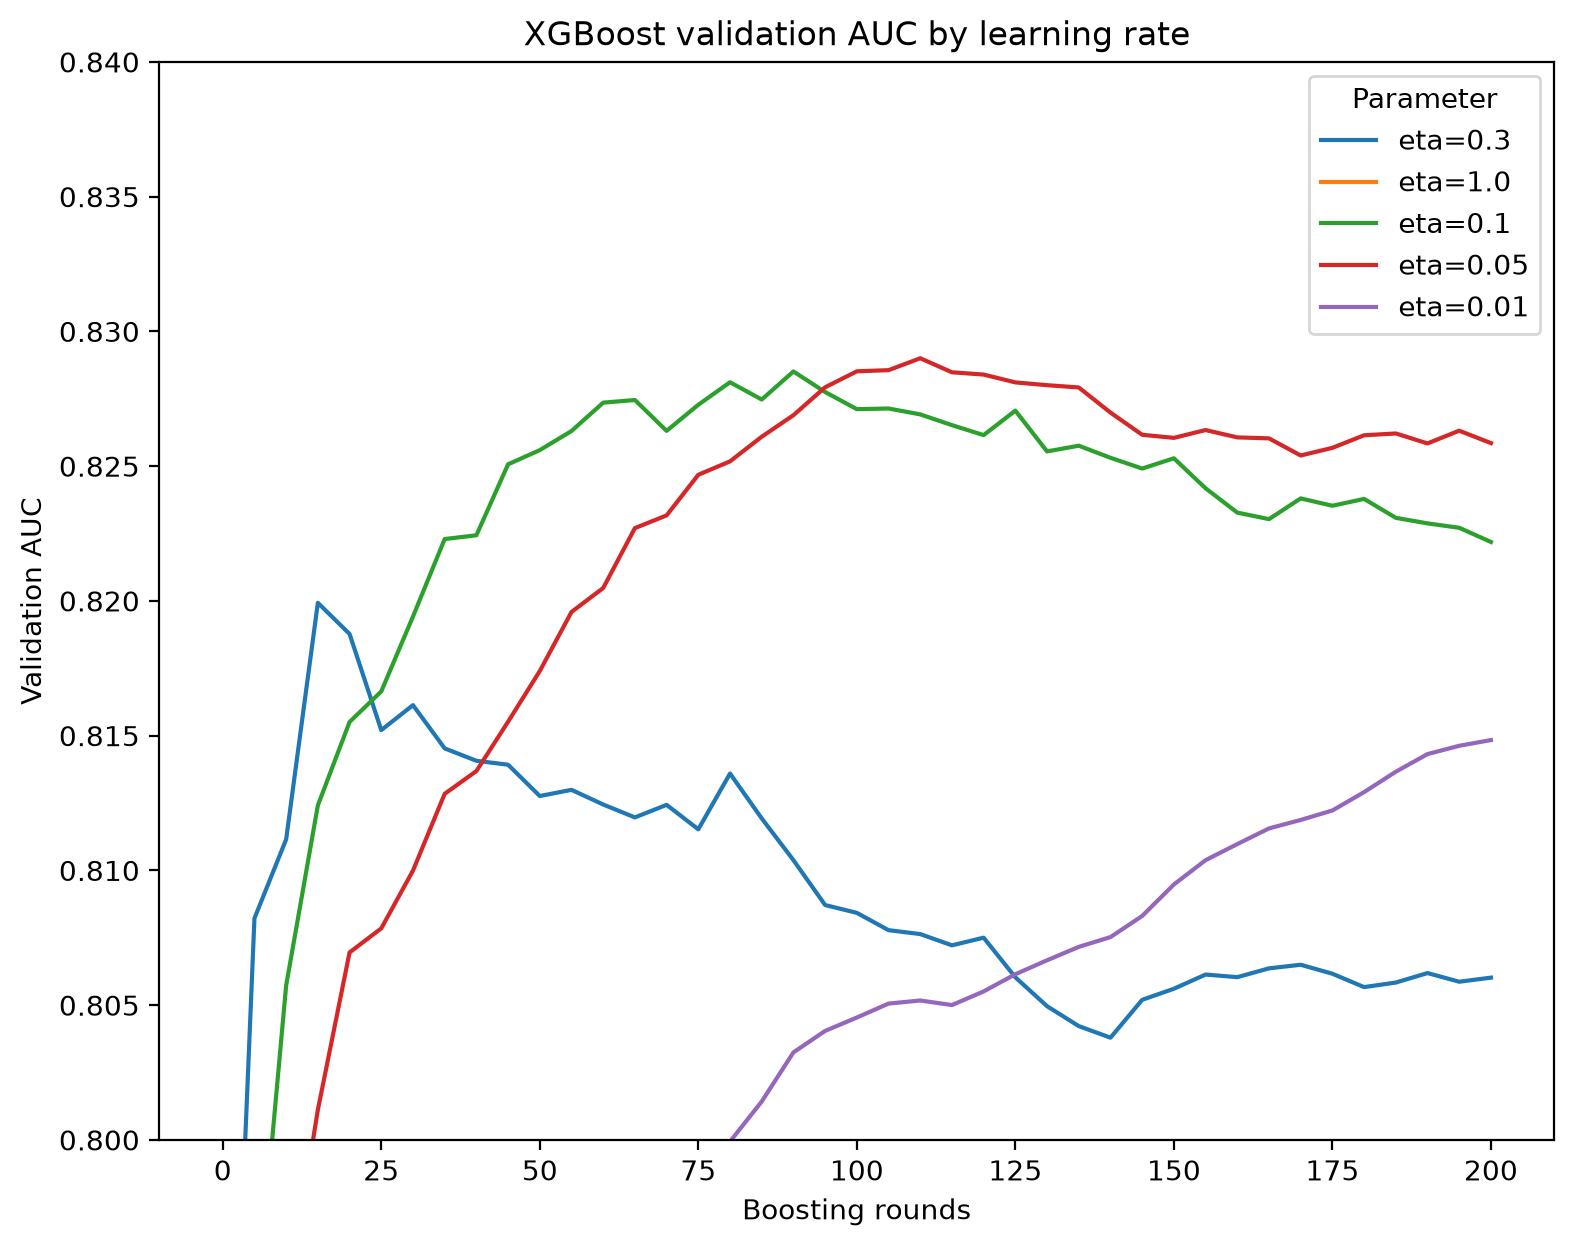
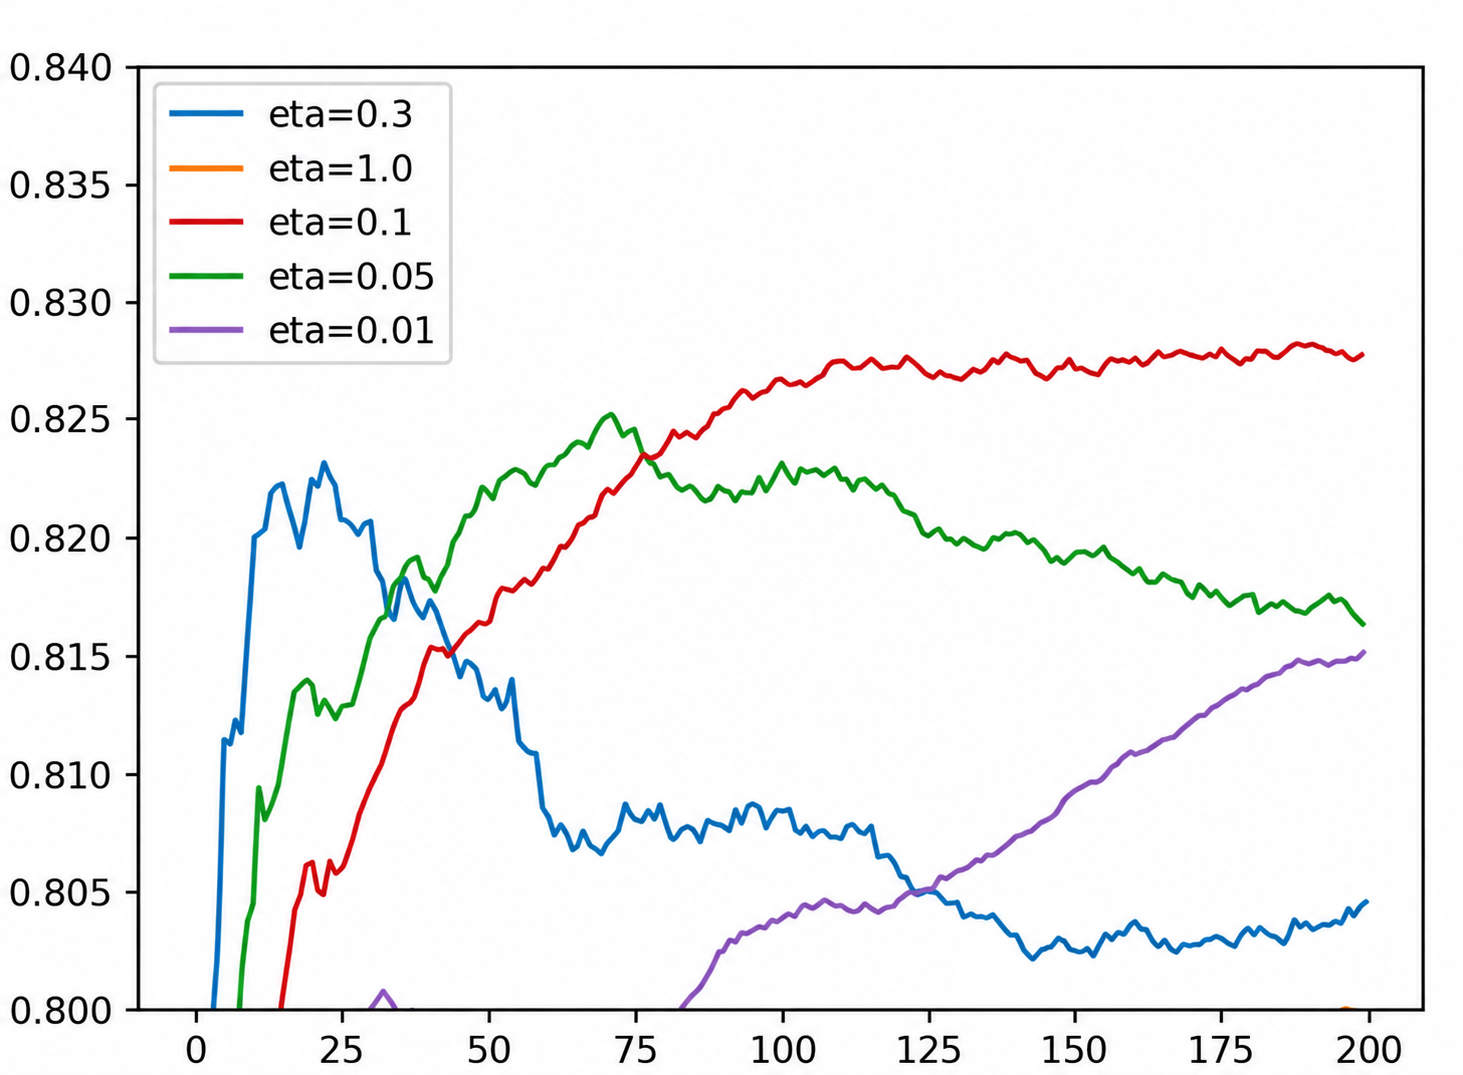
Repair XGBoost eta plot semantics

diff --git a/cohorts/2026/06-trees/images/2026-09-09-provenance-ledger.md b/cohorts/2026/06-trees/images/2026-09-09-provenance-ledger.md
@@ -1,11 +1,12 @@
 # 06-trees durable provenance — 2026-09-09
 
-This ledger records durable source-to-crop provenance for the eleven
+This ledger records durable source-to-crop provenance for the twelve
 illustrations in this queue. Seven published PNGs retain their previously
 accepted bytes. The four `10-summary` PNGs are regenerated in focused commits
 from their original non-crisp JPGs and bounded crops; their previous PNGs are
 never used as imagegen inputs. The final-model semantic correction to the
-`10-summary-06` output is recorded below.
+`10-summary-06` output and the later eta-plot semantic correction are recorded
+below.
 
 ## Method
 
@@ -17,11 +18,12 @@ controls, browser chrome, and unrelated notebook cells are outside the crop
 where applicable. The source JPG, crop JPG, and published imagegen PNG are all
 retained together.
 
-The seven diagram crops use the coordinates recorded in the original rollout
-notes. The four summary crops are bounded content regions from the original
-notebook screenshots. Each regenerated summary output is made with imagegen
-using the original JPG and its matching bounded crop only; the old crisp PNG is
-not supplied as a reference.
+The seven earlier diagram crops use the coordinates recorded in the original
+rollout notes. The eta plot has its own checked-in crop script because its
+published output required a semantic repair. The four summary crops are
+bounded content regions from the original notebook screenshots. Each
+regenerated imagegen output is made using the original JPG and its matching
+bounded crop only; the old crisp PNG is not supplied as a reference.
 
 No sharpening, upscaling, or imagegen operation is performed by the crop
 script. It only preserves the source content region needed to audit the
@@ -96,8 +98,8 @@ Imagegen execution: `exec-8f42295c-8408-42af-84ae-7ece5c751291`. The output
 contains C2PA metadata identifying OpenAI image generation. Native dimensions
 are `1495×1052`; a simulated `608px` render was inspected and kept all
 parameter text, stages, arrows, and the `0.3` annotation readable. The
-replacement changes the published PNG intentionally; the eleven provenance-
-only PNGs above remain byte-for-byte unchanged.
+replacement changes the published PNG intentionally; the eleven previously
+recorded provenance-only PNGs above remain byte-for-byte unchanged.
 
 ## XGBoost final-model semantic correction
 
@@ -117,3 +119,35 @@ generation.
 | Asset | Previous PNG SHA-256 | Replacement PNG SHA-256 | Imagegen execution |
 |---|---|---|---|
[1 lines of base64/hex data omitted]
+
+## XGBoost eta plot semantic repair
+
+The previous published plot was crisp but contradicted the lesson: the source
+JPG's red trajectory was labeled `eta=0.05` and sat slightly above the green
+`eta=0.1` trajectory, while the lesson caption and prose say that `eta=0.1`
+reaches the top and stays stable. The replacement follows the lesson's stated
+label semantics while retaining the source plot's five trajectories, axis
+bounds, ticks, colors, and exact parameter labels. No new numeric values or
+curves were invented; the conflicting red/green label assignment is recorded
+explicitly rather than silently treated as a crispness pass.
+
+The original JPG and its bounded crop were the only image references supplied
+to imagegen. The previous published PNG was not used as an input, and the
+output is a redraw rather than an enlargement or sharpened crop. The crop is
+reproducible with
+[`2026-09-09-xgb-eta-repair-crop.sh`](2026-09-09-xgb-eta-repair-crop.sh),
+whose SHA-256 is
[1 lines of base64/hex data omitted]
+
+| Asset | Source JPG | Crop JPG | Crop `(x, y, width, height)` | Source SHA-256 | Crop SHA-256 | Previous PNG SHA-256 | Replacement PNG SHA-256 |
+|---|---|---|---|---|---|---|---|
[1 lines of base64/hex data omitted]
+
+Imagegen execution: `exec-55f38be5-de6e-4622-8ed2-9c7c36c712fe`. The output
+contains C2PA metadata with URN
+`urn:c2pa:7c94cf0c-ba5a-4da2-853f-bc8ba592c53b`. Native dimensions are
+`1463×1075`; a simulated `608×447` lesson render was inspected. OCR at both
+sizes retained all five legend labels and all axis tick labels. The output
+contains no camera, face, browser, cursor, selection, or decorative overlay.
+The normalized comparison against the source crop after resizing was
+`0.205028` RMSE, confirming that the result is not a simple enlargement.
